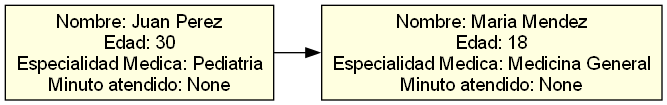
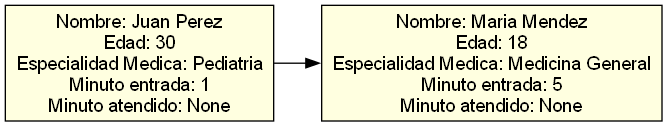
agregar dato minuto entrada cola

diff --git a/graficagraphviz.py b/graficagraphviz.py
@@ -57,9 +57,10 @@ node [shape=box, style=filled, fillcolor=lightyellow, fontname="Helvetica"];
         edad = paciente.info.edad   
         especialidadmedica = paciente.info.especialidadmedica
         minutoentredaatendido = paciente.info.minutoentredaatendido 
+        minutoentradaalacola = paciente.info.minutoentradaalacola
         print(f"Paciente: {nombre}, {edad}, {especialidadmedica}, {minutoentredaatendido}")
-        dot_text += f'paciente{i} [label="Nombre: {nombre}\nEdad: {edad}\nEspecialidad Medica: {especialidadmedica}\nMinuto atendido: {minutoentredaatendido}"];\n'
-        
+        dot_text += f'paciente{i} [label="Nombre: {nombre}\nEdad: {edad}\nEspecialidad Medica: {especialidadmedica}\nMinuto entrada: {minutoentradaalacola}\nMinuto atendido: {minutoentredaatendido}"];\n'
+
     print("\n" + "/"*10 + "Fin Recorrer Cola" + "/"*10)
 
 
